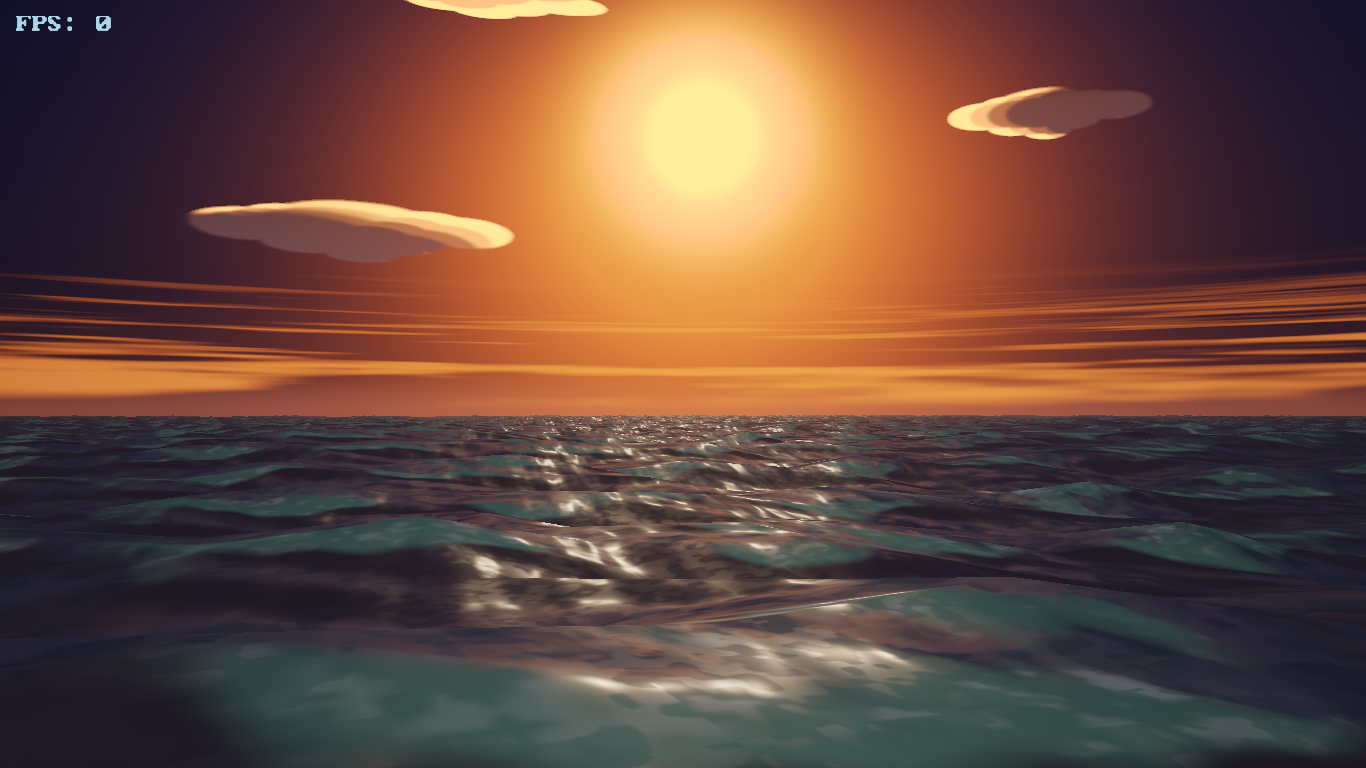
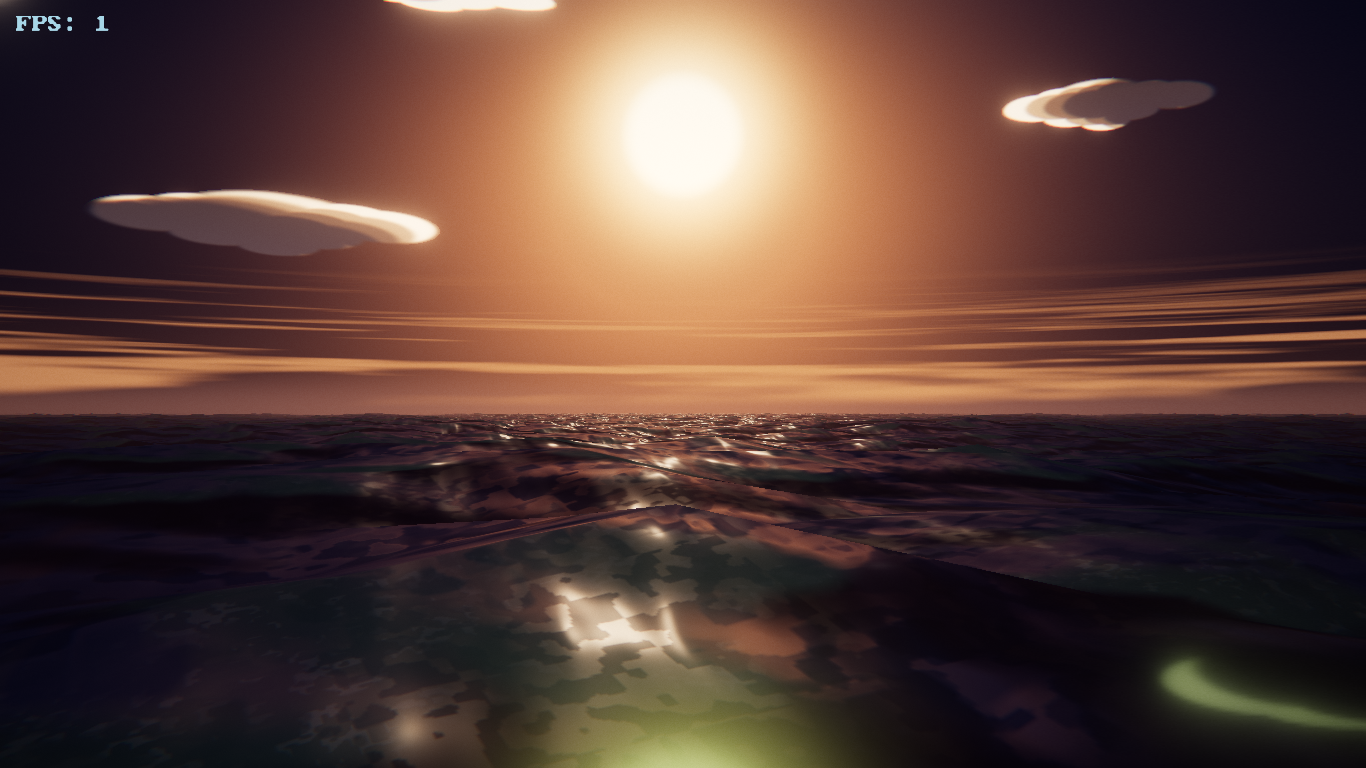
Render the store screenshots through the port's own GLES3 path
The listing images were hand-copied captures, so nothing regenerated them when
a scene changed. host-render builds the shared scene sources against the host's
GLES3 driver and host-png writes the two listing PNGs from those frames, with
host-shaders as a fast link check for the whole shader tree.

🤖 Generated with Codebuff

diff --git a/buildtools/ppm_to_png.py b/buildtools/ppm_to_png.py
@@ -1,0 +1,68 @@
+#!/usr/bin/env python3
+"""Convert a P6 PPM frame to an 8-bit RGBA PNG.
+
+The host GLES3 check (android/Makefile's host-render) writes P6 PPMs, because
+that is the only format the scenes' own screenshot path knows. The store listing
+wants PNG, so the PNG is written through buildtools/make_icons.write_rgba -- the
+same stdlib-only writer (no Pillow) the launcher icons already go through.
+
+    python3 buildtools/ppm_to_png.py IN.ppm OUT.png
+"""
+import sys
+
+import make_icons
+
+
+def _token(data, pos):
+    """Next whitespace-separated header token, skipping '#' comments."""
+    while True:
+        while pos < len(data) and data[pos] in b" \t\r\n":
+            pos += 1
+        if pos < len(data) and data[pos:pos + 1] == b"#":
+            while pos < len(data) and data[pos] not in b"\r\n":
+                pos += 1
+        else:
+            break
+    start = pos
+    while pos < len(data) and data[pos] not in b" \t\r\n":
+        pos += 1
+    return data[start:pos], pos
+
+
+def read_ppm(path):
+    """Return (w, h, rgb) for a binary 8-bit PPM, top row first."""
+    with open(path, "rb") as f:
+        data = f.read()
+    magic, pos = _token(data, 0)
+    if magic != b"P6":
+        raise ValueError("%s: not a binary P6 PPM (got %r)" % (path, magic))
+    width, pos = _token(data, pos)
+    height, pos = _token(data, pos)
+    maxval, pos = _token(data, pos)
+    w, h, top = int(width), int(height), int(maxval)
+    if top != 255:
+        raise ValueError("%s: only 8-bit PPMs are supported (maxval %d)" % (path, top))
+    pos += 1  # the single whitespace byte that ends the header
+    rgb = data[pos:pos + w * h * 3]
+    if len(rgb) != w * h * 3:
+        raise ValueError("%s: expected %d pixel bytes, found %d" % (path, w * h * 3, len(rgb)))
+    return w, h, rgb
+
+
+def main():
+    if len(sys.argv) != 3:
+        sys.stderr.write("usage: ppm_to_png.py IN.ppm OUT.png\n")
+        return 2
+    w, h, rgb = read_ppm(sys.argv[1])
+    rgba = bytearray(w * h * 4)
+    rgba[0::4] = rgb[0::3]
+    rgba[1::4] = rgb[1::3]
+    rgba[2::4] = rgb[2::3]
+    rgba[3::4] = b"\xff" * (w * h)
+    size = make_icons.write_rgba(sys.argv[2], w, h, rgba)
+    print("%s: %dx%d RGBA, %d bytes" % (sys.argv[2], w, h, size))
+    return 0
+
+
+if __name__ == "__main__":
+    sys.exit(main())

diff --git a/android/README.md b/android/README.md
@@ -103,8 +103,10 @@ What the recipe relies on, and what this folder guarantees for it:
 * **Listing metadata** from `fastlane/metadata/android/en-US/`: title, short
   and full description, icon, two phone screenshots and per-version
   changelogs. Images are PNGs from the port's own GLES3 render path
-  (1366×768); replace them with device captures whenever newer ones exist,
-  because F-Droid reads them out of the repository at the commit it builds.
+  (1366×768): `make -C android host-png` re-renders both from the current
+  source through the host driver, so the listing cannot lag the scenes.
+  Replace them with device captures whenever newer ones exist, because
+  F-Droid reads them out of the repository at the commit it builds.
 
 ### Checking the recipe locally
 
